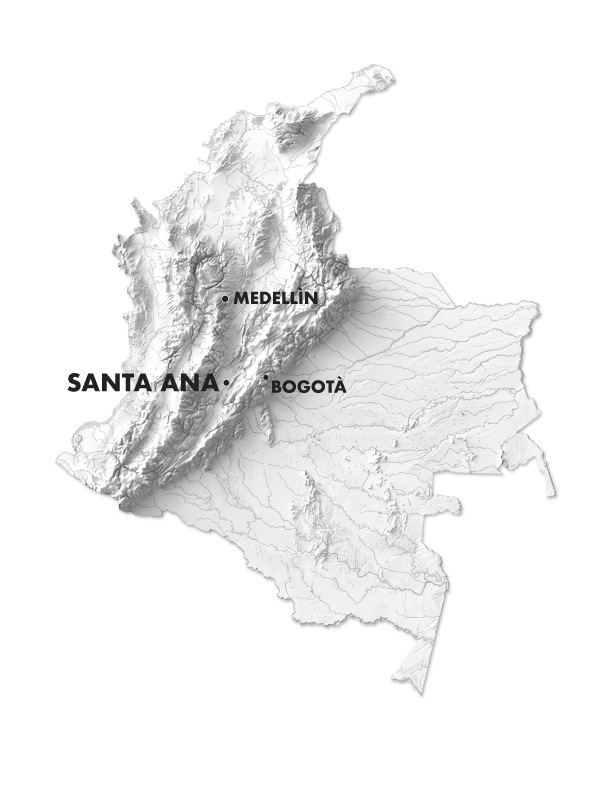
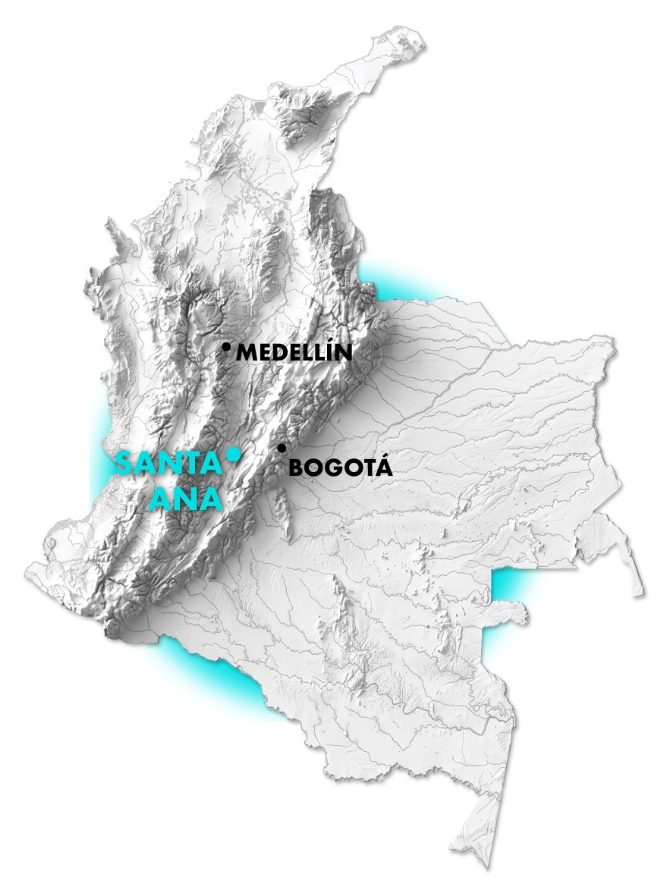
feat(home): replace Colombia map with new 3D relief topographic map highlighting Santa Ana

Changed region(s): [[0.031, 0.0303, 0.9624, 0.9697]]

diff --git a/outcrop/index.html b/outcrop/index.html
@@ -384,7 +384,7 @@
                             </div>
                         </div>
                         <div style="position: relative; width: 100%; text-align: center;">
-                            <img src="assets/MAPA-COL-OCG-CLEAN.png?v=20261005_v3" alt="Outcrop Colombia Projects Map" class="colombia-map-img" style="max-height: 520px; width: auto; max-width: 100%; object-fit: contain; filter: drop-shadow(0 8px 16px rgba(0,0,0,0.08));">
+                            <img src="assets/MAPA-COL-OCG-CLEAN.png?v=20261005_map3d" alt="Outcrop Colombia Projects Map" class="colombia-map-img" style="max-height: 540px; width: auto; max-width: 100%; object-fit: contain;">
                         </div>
                     </div>
                 </div>

diff --git a/outcrop/preview.html b/outcrop/preview.html
@@ -384,7 +384,7 @@
                             </div>
                         </div>
                         <div style="position: relative; width: 100%; text-align: center;">
-                            <img src="assets/MAPA-COL-OCG-CLEAN.png?v=20261005_v3" alt="Outcrop Colombia Projects Map" class="colombia-map-img" style="max-height: 520px; width: auto; max-width: 100%; object-fit: contain; filter: drop-shadow(0 8px 16px rgba(0,0,0,0.08));">
+                            <img src="assets/MAPA-COL-OCG-CLEAN.png?v=20261005_map3d" alt="Outcrop Colombia Projects Map" class="colombia-map-img" style="max-height: 540px; width: auto; max-width: 100%; object-fit: contain;">
                         </div>
                     </div>
                 </div>

diff --git a/outcrop/review.html b/outcrop/review.html
@@ -384,7 +384,7 @@
                             </div>
                         </div>
                         <div style="position: relative; width: 100%; text-align: center;">
-                            <img src="assets/MAPA-COL-OCG-CLEAN.png?v=20261005_v3" alt="Outcrop Colombia Projects Map" class="colombia-map-img" style="max-height: 520px; width: auto; max-width: 100%; object-fit: contain; filter: drop-shadow(0 8px 16px rgba(0,0,0,0.08));">
+                            <img src="assets/MAPA-COL-OCG-CLEAN.png?v=20261005_map3d" alt="Outcrop Colombia Projects Map" class="colombia-map-img" style="max-height: 540px; width: auto; max-width: 100%; object-fit: contain;">
                         </div>
                     </div>
                 </div>

diff --git a/outcrop/style.css b/outcrop/style.css
@@ -939,7 +939,6 @@ h1, h2, h3, h4, h5, h6 {
 .colombia-map-img {
     max-width: 100%;
     height: auto;
-    filter: opacity(0.9) contrast(1.05) drop-shadow(0px 15px 30px rgba(0, 0, 0, 0.12)); /* Shape-based drop shadow */
 }
 
 .map-labels {
